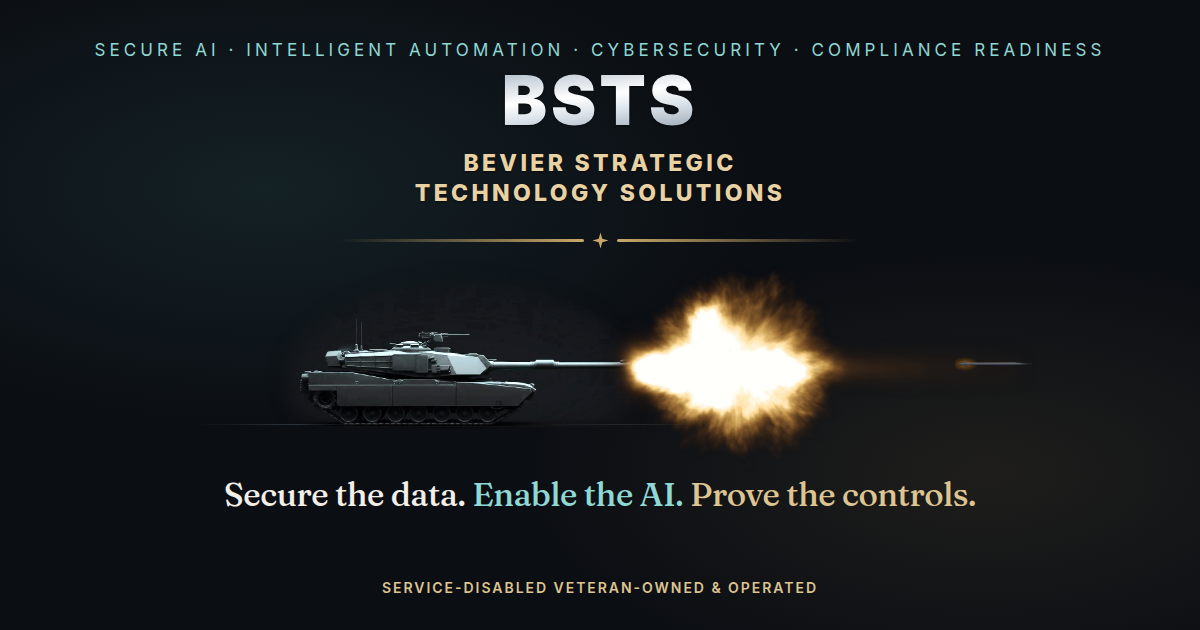
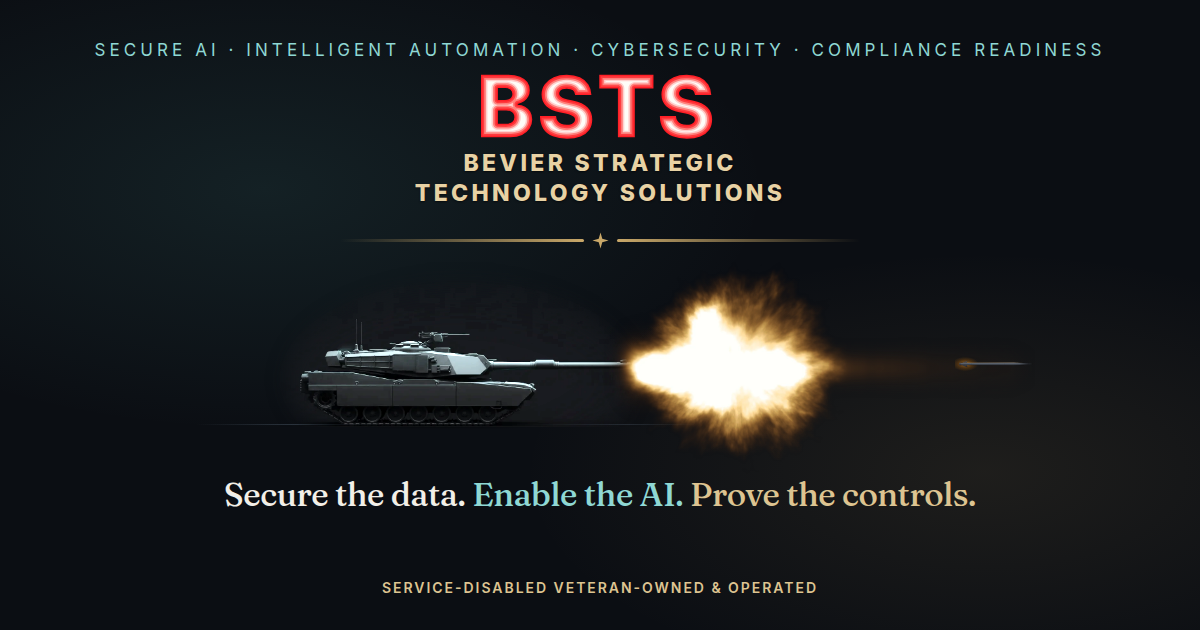
Rebuild BSTS wordmark as true vector-offset gradient, add hero corner brackets
Replaces the wordmark construction with exact analytic polygon offsetting
(Shapely/GEOS) of the original Inter Black glyph outlines, so the red-to-
white contour gradient in every stroke follows the true centerline with no
ripple or corner-flare artifacts from the old raster medial-axis approach.

Adds an optional cyan corner-bracket frame (top-right + bottom-left only),
scoped to the homepage hero via BstsWordmark's new `brackets` prop; header,
footer, and the OG share card keep the plain wordmark unchanged.

Also fixes a y-axis double-flip bug found during live-render verification
that was rendering every letter upside-down.

Claude-Session: https://claude.ai/code/session_01HTZZ4ppQjAWsUJ1c53G2uK

Changed region(s): [[0.4008, 0.1206, 0.6167, 0.2413]]

diff --git a/src/components/brand/BstsWordmark.tsx b/src/components/brand/BstsWordmark.tsx
@@ -1,0 +1,136 @@
+import { useId } from "react";
+
+/**
+ * The BSTS wordmark -- the one place that decides how the four letters of
+ * "BSTS" are drawn and colored. The header, footer, and homepage hero all
+ * render this component rather than each styling their own "BSTS" text.
+ *
+ * Construction (true vector offset, no raster anywhere):
+ *
+ *   - Each letter's outer silhouette (layer 0, solid `#FF1F26`) is the
+ *     ACTUAL Inter Black glyph outline extracted from the font with
+ *     fontTools (wght=900 -- the weight the site's own `.mark-hero`
+ *     treatment already uses) -- translated for layout, never reshaped.
+ *   - The four interior bands are TRUE INWARD-OFFSET CONTOURS of that same
+ *     outline, computed with Shapely/GEOS polygon buffering
+ *     (`polygon.buffer(-delta, join_style=round)`), which shrinks the
+ *     exterior and grows both counters at once -- i.e. it erodes the
+ *     stroke from every edge simultaneously. Nothing here is a raster
+ *     medial-axis skeleton (an earlier version was, and it produced
+ *     pixel-quantization ripple and corner-flare artifacts); this is exact
+ *     analytic polygon geometry, so every band edge runs perfectly smooth
+ *     and parallel to the stem, bowls, counters, and corners it follows.
+ *   - The per-glyph offset distance that turns the approved percentages
+ *     into real units came from measuring true stroke half-width by exact
+ *     ray-polygon intersection against the vector path (many scanlines,
+ *     robust low-percentile span width) -- again, no pixel grid involved.
+ *
+ * Band colors, outer to inner (18/38/58/76% of that measured half-width):
+ *   layer 0 (0-18%,  the untouched outer path)  #FF1F26
+ *   layer 1 (>=18%)                              #FF3B3F
+ *   layer 2 (>=38%)                              #FF817C
+ *   layer 3 (>=58%)                              #FFD1CE
+ *   layer 4 (>=76%, innermost core)              #FFFDF8
+ *
+ * Painted in that order, each smaller layer covers the middle of the one
+ * before it -- no fill-rule subtraction needed, no gaps, no seams.
+ *
+ * `brackets`: an optional cyan (var(--color-cyan-core)) corner-bracket
+ * frame -- top-right and bottom-left only -- used on the homepage hero.
+ * It is NOT a secondary mark, icon, or badge: it never appears without
+ * the complete wordmark, and it is off by default everywhere else (header,
+ * footer, and every other placement render the plain wordmark alone).
+ */
+
+const LETTER_X = [0, 1408.96, 2824.16, 4271.12]; // B, S, T, S
+const LETTERS = ["sym-wm-b", "sym-wm-s", "sym-wm-t", "sym-wm-s"];
+const X_MIN = 96;
+const X_MAX = 5577.12;
+const Y_MIN = -18;
+const Y_MAX = 1510;
+const VIEW_W = X_MAX - X_MIN;
+const VIEW_H = Y_MAX - Y_MIN;
+const ASPECT = VIEW_W / VIEW_H;
+
+// Bracket geometry, derived from the wordmark's own box so it scales with
+// it rather than being hand-tuned pixels.
+const BRACKET_PAD = VIEW_H * 0.8;
+const BRACKET_GAP = 110;
+const BRACKET_ARM = VIEW_H * 0.85;
+const BRACKET_STROKE = 118;
+const BRACKET_COLOR = "var(--color-cyan-core)";
+
+const BX0 = -BRACKET_PAD - BRACKET_GAP;
+const BY0 = -BRACKET_PAD - BRACKET_GAP;
+const BX1 = VIEW_W + BRACKET_PAD + BRACKET_GAP;
+const BY1 = VIEW_H + BRACKET_PAD + BRACKET_GAP;
+const BRACKET_VB_X = -BRACKET_PAD * 2;
+const BRACKET_VB_Y = -BRACKET_PAD * 2;
+const BRACKET_VB_W = VIEW_W + BRACKET_PAD * 4;
+const BRACKET_VB_H = VIEW_H + BRACKET_PAD * 4;
+const BRACKET_ASPECT = BRACKET_VB_W / BRACKET_VB_H;
+
+export function BstsWordmark({
+  className = "",
+  brackets = false,
+}: {
+  className?: string;
+  brackets?: boolean;
+}) {
+  const uid = useId();
+  const b = (name: string) => `${name}${uid}`;
+
+  const viewBox = brackets
+    ? `${BRACKET_VB_X} ${BRACKET_VB_Y} ${BRACKET_VB_W} ${BRACKET_VB_H}`
+    : `0 0 ${VIEW_W} ${VIEW_H}`;
+  const aspect = brackets ? BRACKET_ASPECT : ASPECT;
+
+  return (
+    <svg
+      className={className}
+      style={{ height: "1em", width: `${aspect}em`, display: "inline-block", overflow: "visible" }}
+      viewBox={viewBox}
+      aria-hidden="true"
+    >
+      <defs>
+  <symbol id={b("sym-wm-b")} overflow="visible">
+      <path d="M0,1490V0H646Q816,0 932,46Q1048,92 1107,175.5Q1166,259 1166,372Q1166,454 1130,522Q1094,590 1029.5,635.5Q965,681 878,698V714Q974,717 1052.5,761.5Q1131,806 1177.5,884.5Q1224,963 1224,1068Q1224,1190 1161,1285.5Q1098,1381 981,1435.5Q864,1490 702,1490ZM404,1168H594Q695,1168 746.5,1129Q798,1090 798,1016Q798,963 774,926.5Q750,890 705.5,871Q661,852 600,852H404ZM404,602H570Q623,602 663.5,585.5Q704,569 727,537.5Q750,506 750,460Q750,392 700.5,355Q651,318 576,318H404Z" fill="#FF1F26" />
+      <path d="M36.36,1453.64L36.36,36.36L654.22,36.39L747.25,41.05L826.66,52.87L896.52,71.67L959.56,98.27L1012.12,130.6L1046.44,160.01L1074.67,192.82L1098.14,231.02L1114.39,270.33L1125.23,315.29L1129.56,364.29L1127.21,411.47L1118.15,455.12L1105.99,488.28L1088.59,521.23L1067.24,551.33L1042.06,578.44L1005.64,607.81L963.94,632.01L922.61,648.8L868.63,662.87L857.82,667.75L849.17,675.85L843.57,686.3L841.72,716.43L848.02,734.57L856.42,743.27L864.92,747.92L925.86,755.04L967.89,764.69L1011.22,781.11L1051.72,803.58L1083.15,827.21L1110.96,854.58L1135.31,885.85L1155.84,920.73L1172.56,962.41L1183.17,1008.18L1187.53,1058.38L1185.61,1109.17L1177.88,1155.86L1164.43,1199.8L1145.25,1241.26L1120.29,1280.33L1093.79,1312.15L1065.3,1339.37L1033.14,1364.14L997.19,1386.46L957.46,1406.25L917.57,1421.77L871.64,1435.04L825.75,1444.26L769.7,1451L713.62,1453.57L36.36,1453.64ZM367.64,1168L370.41,1181.91L378.29,1193.71L390.09,1201.59L404,1204.36L599.28,1204.33L640.37,1202.22L700.13,1191.16L747.93,1171.42L776.5,1151.51L799.91,1126.86L817.27,1098.35L828.65,1066.04L834.11,1026.91L832.57,985.98L824.68,949.38L810.13,915.92L786.64,883.81L755.7,857.13L718.56,837.04L675.27,823.37L641.83,817.86L604.91,815.67L404,815.64L385.82,820.51L372.51,833.82L367.72,849.62L367.64,1168ZM367.64,602L370.41,615.91L378.29,627.71L390.09,635.59L404,638.36L573,638.35L605.78,636.54L657.56,626.17L702.75,606.71L730.2,587.28L752.69,563.78L769.19,537.89L780.48,507.83L785.93,473.51L784.98,435.88L777.64,402.19L764.43,372.66L742.66,343.84L714.5,320.34L679.91,301.42L639.88,288.44L610.68,283.53L578.21,281.65L404,281.64L385.82,286.51L372.51,299.82L367.72,315.62L367.64,602Z" fill="#FF3B3F" />
+      <path d="M76.76,1413.24L76.76,76.76L653.94,76.79L739.8,80.92L812.39,91.21L878.24,108.16L936.76,132.02L986.35,161.8L1016.51,187.23L1042.07,216.68L1062.96,250.99L1077.16,286.58L1086.29,327.96L1089.24,372.02L1086.07,413.83L1076.81,451.94L1062.83,484.81L1043.76,515.62L1020.55,542.97L992.7,567.34L967.13,584.5L939.06,599.05L901.6,613.12L848.69,627.06L823.76,643.69L811.54,659.59L803.86,678.12L801.4,692.98L801.41,719.13L805.48,739.17L814.71,757.43L824.62,769.16L841.08,781.3L865.19,789.68L915.66,794.32L958.02,803.91L995.8,818.51L1032.47,839.3L1056.79,857.83L1079.65,880.17L1099.91,905.69L1116.51,932.6L1132.35,969.37L1142.3,1008.71L1146.94,1052.87L1145.86,1100.3L1139.55,1142.19L1128.25,1181.2L1110.89,1219.87L1089.11,1254.52L1065.9,1282.82L1039,1308.71L1008.1,1332.33L975.22,1352.45L938.62,1370.4L901.87,1384.42L859.17,1396.48L816.11,1404.89L766.44,1410.73L713.11,1413.17L76.76,1413.24ZM327.24,1168L333.08,1197.37L346.29,1218.61L370.05,1236.84L393.98,1244.1L597.08,1244.75L639.19,1242.9L701.94,1232.54L730.59,1223.67L756.8,1212.42L793.19,1189.93L824.19,1160.97L848.01,1126.93L864.53,1087.84L873.42,1043.13L873.88,993.04L866.07,946.97L850.39,905.58L823.3,864.35L787.69,830.41L744.65,804.45L693.75,786.26L650.03,778.14L603.79,775.26L398.98,775.4L370.05,783.16L353.39,794.29L340.18,809.35L333.08,822.63L327.9,841.98L327.24,1168ZM327.24,602L333.08,631.37L346.29,652.61L370.05,670.84L393.98,678.1L605.37,677.18L660.64,667.34L710.47,648.43L746.13,626.32L776.23,598.56L799.6,566.55L815.98,530.14L825.07,488.92L826.24,443.63L819.47,401.27L805.16,363.11L780.93,326.06L748.03,294.7L705.98,268.93L657.5,251.16L619.62,243.91L578.59,241.25L398.98,241.4L370.05,249.16L357.27,257.1L343.1,271.27L333.08,288.63L327.9,307.98L327.24,602Z" fill="#FF817C" />
+      <path d="M117.16,1372.84L117.16,117.16L653.67,117.19L732.67,120.83L801.74,130.3L860.78,144.98L914.78,166.25L961.03,193.35L987.02,214.91L1008.53,239.27L1026.08,267.57L1038.08,296.95L1046.02,331.76L1048.83,369.95L1046.54,405.08L1039.24,436.88L1027.56,465.07L1011.09,491.86L990.93,515.46L966.24,536.68L940.77,553.04L912.05,566.65L832.67,589.99L852.78,547.38L864.33,500.17L866.93,448.36L860.31,398.16L845.72,354.42L822.56,313.91L792.01,279.05L753.93,249.57L725.8,233.65L695.69,220.78L663.49,211L629.69,204.5L583.41,200.91L404,200.84L373.68,204.83L345.42,216.54L321.16,235.16L306.59,252.91L293.06,280.34L287.09,310.34L286.84,602L289.09,624.86L293.06,639.66L302.54,660.58L315.91,679.25L332.68,694.95L345.42,703.46L366.34,712.94L388.71,718.16L587.51,718.82L638.23,713.6L684.84,702.29L728.51,684.58L766.76,661.32L761.09,690.33L761.88,729.61L767.32,752.42L779.14,776.75L742.89,759.72L704.33,747.27L662.65,739.05L619.47,735.22L396.34,735.09L373.68,738.83L359.16,743.76L332.68,759.05L315.91,774.75L302.54,793.42L293.06,814.34L287.84,836.71L287.09,1175.66L290.83,1198.32L295.76,1212.84L306.59,1233.09L315.91,1245.25L326.75,1256.09L345.42,1269.46L366.34,1278.94L388.71,1284.16L599.88,1285.13L657.52,1281.64L697.11,1275.17L733.43,1265.44L766.97,1252.34L798.12,1235.56L821.37,1219.2L842.47,1200.52L861.54,1179.22L877.18,1157.02L890.16,1133.22L900.79,1106.99L908.66,1078.6L913.33,1049.92L915.15,1018.36L913.81,985.81L909.37,954.88L901.88,925.51L891.42,897.89L878.2,872.24L861.81,847.87L843.01,825.8L858.45,829.52L901.49,833.16L929.85,838.15L959.13,846.9L988.04,859.77L1015.87,876.96L1040.83,898.01L1062.47,922.84L1080.88,951.64L1094.06,982.26L1102.8,1017.38L1106.65,1056.36L1105.62,1096.8L1100.08,1133.56L1090.3,1167.35L1076.23,1199.01L1057.57,1229.19L1036.23,1255.4L1012.7,1278.04L985.33,1298.95L953.67,1318.18L920.24,1334.33L884.11,1347.72L847.14,1357.81L806.86,1365.44L759.94,1370.72L712.59,1372.77L117.16,1372.84Z" fill="#FFD1CE" />
+      <path d="M153.52,1336.48L153.52,153.52L653.42,153.55L726.19,156.76L789.42,165L847.58,178.95L897.18,198.14L938.51,221.95L958.69,238.17L974.59,254.89L988.07,273.95L998.96,295.65L1006.39,318.46L1011.04,344.79L1012.48,373.2L1010.7,398.83L1006,421.21L998.52,441.59L987.21,462.37L973.86,480.39L957.84,496.73L938.31,511.92L894.61,534.42L902.57,485L902.39,432.66L894.16,383.48L878.3,338.21L855.13,297.04L825.24,260.71L788.24,228.97L744.45,202.32L686.19,179.46L621.68,166.87L579.3,164.49L393.96,164.81L364.27,169.71L336.1,180.31L310.54,196.2L282.2,224.54L262.17,259.25L253.43,288.05L250.81,307.96L250.81,612.04L255.71,641.73L271.05,678.76L288.58,703.22L315.01,727L288.58,750.78L271.05,775.24L258.63,802.65L251.79,831.96L250.81,1178.04L253.43,1197.95L262.17,1226.75L271.05,1244.76L288.58,1269.22L302.78,1283.42L327.24,1300.95L354.65,1313.37L374.05,1318.57L404,1321.52L600.14,1321.49L642.78,1319.63L680.74,1315.16L716.99,1307.9L750.71,1297.98L780.88,1285.96L832.95,1255.97L876.43,1217.69L895.38,1194.85L910.81,1171.68L924.42,1145.78L935.25,1118.59L943.49,1089.47L948.92,1058.56L951.37,1026.27L950.77,992.24L941.01,930.13L932.09,901.49L920,873.2L966.51,889.6L988.59,902.3L1007.6,916.77L1024.22,933.34L1039.15,952.8L1050.94,972.9L1059.99,995.03L1066.46,1020.68L1069.8,1047.67L1070.32,1078.13L1067.7,1108.38L1062.57,1134.14L1054.39,1159.52L1043.3,1183.48L1028.98,1206.65L1010.7,1229.44L989.03,1250.44L963.2,1270.03L934.44,1287.24L903.89,1301.76L870.74,1313.81L798.6,1329.91L754.09,1334.69L708.77,1336.45L153.52,1336.48Z" fill="#FFFDF8" />
+  </symbol>
+  <symbol id={b("sym-wm-s")} overflow="visible">
+      <path d="M644,1528Q450,1528 305.5,1470.5Q161,1413 81,1293Q1,1173 0,986H384Q388,1054 418.5,1101Q449,1148 504.5,1172Q560,1196 638,1196Q703,1196 747,1180Q791,1164 813.5,1135.5Q836,1107 836,1070Q836,1036 814.5,1010.5Q793,985 744,964Q695,943 612,926L462,894Q265,852 151.5,750.5Q38,649 38,474Q38,332 115,225.5Q192,119 327.5,59.5Q463,0 640,0Q821,0 952.5,60.5Q1084,121 1155.5,230.5Q1227,340 1228,486H840Q835,413 786.5,372.5Q738,332 640,332Q578,332 538,346.5Q498,361 479,387Q460,413 460,446Q460,481 480.5,507.5Q501,534 545.5,553.5Q590,573 660,588L782,614Q905,640 993.5,683Q1082,726 1138.5,783.5Q1195,841 1221.5,913Q1248,985 1248,1070Q1248,1217 1175.5,1319.5Q1103,1422 968,1475Q833,1528 644,1528Z" fill="#FF1F26" />
+      <path d="M39,1023.89L350.11,1023.89L358.87,1061.43L372.68,1096.69L391.34,1128.48L413.97,1155.71L440.52,1178.81L472.3,1198.62L507.67,1213.91L547.97,1225.15L583.49,1230.9L621.5,1233.64L663.43,1233.29L701.65,1229.72L733.98,1223.49L762.59,1214.63L790.14,1202.26L813.79,1187.37L839.23,1163.84L858.3,1135.7L869.85,1104.72L873.89,1071.36L870.42,1039.25L859.47,1009.81L841.27,983.53L816.32,961.01L768.11,933.24L703.9,909.61L644.52,894.24L432.77,848.28L380.36,833.22L331.9,815.72L276.83,790.5L227.81,761.63L182.02,726.88L148.77,693.73L123.75,659.76L105.34,625.33L90.37,584.4L81.16,543L76.3,494.01L76.79,444.87L82.25,398.56L93.45,352.09L117.85,292.74L151.08,240.43L197.33,188.71L250.16,145.69L311.75,108.87L381.82,78.68L454.81,57.47L533.78,43.92L623.05,38.04L715.92,40.83L801.42,52.33L878.99,72.34L948.83,100.7L1012.86,138.07L1064.9,180.4L1110.15,231.65L1140.48,279.3L1163.62,330.78L1179.59,386.29L1188.5,448.11L872.88,448.11L862.3,413.82L845.84,382.56L823.97,355.54L797.47,333.37L766.65,316.48L731.25,304.41L690.48,296.92L645.37,294.14L595.84,296.04L553.32,302.66L516.8,314.06L484.86,330.59L459.44,351.5L440.02,377.54L427.46,407.14L422.24,439.57L426.09,480.11L441.02,516.73L466.49,548.1L502.99,574.55L541.67,592.98L590.08,609.53L834.41,665.43L897.16,684.47L953.36,706.23L1016.76,738.2L1070.27,773.78L1115.28,813.99L1150.85,857.88L1168.55,887.21L1183.51,919.69L1195.07,954.37L1203.39,990.97L1208.42,1029.49L1210.11,1069.98L1208.59,1110.17L1203.56,1151.17L1196.62,1183.86L1186.26,1217.49L1173.04,1249.11L1156.93,1278.82L1137.87,1306.77L1114.15,1334.98L1089.55,1358.98L1062.27,1381.07L1032.23,1401.27L999.34,1419.56L924.96,1450.31L840.08,1472.54L749.07,1485.5L639.3,1490.1L531.38,1484.68L436.81,1470.22L347.29,1445.62L277.32,1416.34L219.13,1381.48L168.76,1339.71L123.89,1288.19L89.28,1231.94L64.52,1171.01L47.7,1102.15L39,1023.89Z" fill="#FF3B3F" />
+      <path d="M84.89,1066L316.34,1066L329.81,1104.19L348.34,1139.73L371.45,1171.53L398.47,1198.96L429.91,1222.64L465.13,1242.01L504.95,1257.38L547.14,1267.93L589.3,1273.83L633.65,1275.98L680.01,1274.42L722.68,1268.96L758.89,1260.3L793.06,1247.64L823.34,1231.72L849.09,1213.1L874.52,1187.28L894.73,1156.89L908.31,1123.77L915.1,1088.75L915.16,1052.48L908.17,1017.8L894.32,985.77L873.41,956.32L851.65,935.23L825.29,916.2L794.14,898.98L758.23,883.5L676.08,858.44L460.68,811.75L393.3,793.16L347.61,776.66L302.74,756.46L265.51,735.76L229.54,711.22L196.29,682.9L170.32,653.3L148.56,618.15L133.42,581.24L123.25,539.49L118.37,492.26L119.22,441.78L126.31,392.62L143.28,337.8L169.46,287.58L207.2,238.73L253.65,195.54L306.63,159.58L368.56,128.93L434.21,106.16L506.01,90.33L588.11,81.44L677,80.7L757.72,87.74L833.95,102.9L901.9,125.68L964.66,157.11L1017.64,194.58L1061.46,237.99L1089.97,276.47L1111.78,315.81L1129.29,360.54L1140.6,406L904.42,406L887.28,369.52L863.35,336.13L833.4,307.54L799.04,285.33L759.64,268.84L716.09,258.12L665.59,252.63L611.92,252.69L561.24,258.16L516.86,269.16L477.21,286.2L443.89,308.57L417.41,335.82L396.87,369.3L384.4,405.67L380.01,444.89L381.57,470.58L386.32,494.5L394.42,517.81L405.66,539.62L419.87,559.77L436.77,577.95L456.97,594.79L479.76,609.75L523.33,630.98L578.27,649.95L630.15,663.33L815.56,704.01L873.97,721.09L926.05,740.36L983.16,767.61L1032.98,798.57L1073.32,831.6L1107.18,869.25L1124.08,894.11L1138.55,921.5L1149.49,949.35L1158.41,981L1164.46,1014.61L1167.5,1048.62L1165.23,1121.56L1153.06,1183.55L1130.64,1239.78L1098.13,1289.26L1055.75,1332.57L1028.58,1353.41L1000.61,1371.07L935.83,1401.68L863.08,1424.34L780.34,1439.66L683.24,1447.38L581.95,1446.36L487.42,1436.65L402.05,1418.52L335.09,1396.18L276.88,1368.33L226.74,1334.62L181.91,1292.75L144.39,1243.78L117.91,1193.74L97.25,1132.56L84.89,1066Z" fill="#FF817C" />
+      <path d="M134.7,1108.1L285.95,1108.1L303.99,1147.19L326.9,1183.06L353.97,1214.79L386.21,1243.33L422.76,1267.51L462.02,1286.59L503.91,1300.99L550.58,1311.3L599.48,1316.86L652.12,1317.94L702.01,1314.58L747.38,1306.86L788.39,1294.87L826.36,1278.35L860,1257.88L889.01,1233.69L916.91,1201.01L938.24,1163.73L951.88,1123.75L957.86,1080.68L955.84,1038.26L945.91,997.9L928.12,960.14L903.16,926.42L877.79,902.21L847.24,880.27L811.41,860.56L770.06,842.96L684.1,817.05L474.5,771.73L417.65,756.67L337.1,726.29L304.09,709.55L271.96,689.84L239.27,665.05L214.23,640.68L193.91,613.1L179.33,584.26L168.61,551.03L162,512.24L160.14,468.59L162.99,427.55L174.56,374.86L194.62,327.72L224.17,283.62L262.57,243.07L309.32,207.34L363.05,177.47L421.73,153.99L486.44,136.76L561.37,125.66L640,122.1L720.12,125.73L795.11,136.96L861.2,155.21L919.31,180.09L971.11,211.68L1015.15,249.63L1036.8,274.33L1057.04,303.18L1072.71,331.7L1086.04,363.9L932.07,363.9L917.53,338.34L899.62,313.82L879.19,291.73L856.94,272.51L832.84,256.06L806.12,241.9L777.37,230.38L746.26,221.38L688.79,212.07L626.93,210.03L566.57,214.7L513.27,226.15L473.78,240.93L439.01,259.96L408.66,283.45L383.55,310.78L363.11,342.66L348.38,377.8L340.04,414.57L337.99,452.64L340.72,482.27L346.92,509.93L356.86,536.99L370.68,563.12L387.13,586.25L407.26,607.99L430.49,627.57L456.53,644.93L505.53,669.18L566.18,690.28L620.79,704.38L799.85,743.44L851.57,758.1L899.8,775.16L950.94,798.21L997.39,825.2L1034.58,853.29L1065.36,884.37L1094.78,927.84L1113.59,975.7L1124.1,1032.08L1125.18,1095.51L1117.78,1151.4L1101.49,1203.03L1077.02,1247.27L1043.38,1286.95L998.61,1322.86L944.26,1352.56L880.74,1375.96L810.17,1392.48L725.93,1402.93L635.24,1405.87L547.72,1401.66L464.74,1389.96L396.92,1373.21L336.6,1351.19L285.79,1324.66L242.76,1293.29L204.61,1254.72L173.19,1210.17L150.36,1161.6L134.7,1108.1Z" fill="#FFD1CE" />
+      <path d="M184.99,1145.99L260.92,1145.99L283.21,1186.41L310.31,1223.12L342.03,1255.82L377.76,1284.01L417.49,1307.74L461.68,1327.12L508.29,1341.32L559.26,1350.91L614.69,1355.57L673.37,1355.03L726.76,1349.41L775.25,1338.85L820.67,1322.87L861.72,1302L897.48,1276.89L928.49,1247.23L957.54,1208.15L978.86,1164.68L991.68,1118.48L995.99,1070.61L991.78,1023.27L978.98,978.11L957.84,936.13L928.95,898.46L900.38,871.73L866.4,847.56L826.25,825.65L781.5,806.79L690.96,779.72L487.04,735.71L436.07,722.63L368.06,698.56L309.81,669.08L280.01,649.09L253.61,627.04L235.58,606.98L221.66,585.34L210.18,558.58L202.53,528.38L198.59,494.65L198.29,459.53L204.5,409.52L218.75,364.7L241.19,324.16L272.17,286.41L310.6,252.64L355.69,223.74L409.69,198.59L467.37,180.07L534.99,166.85L606.91,160.63L684.83,161.14L759.52,168.89L821.91,182.54L878.54,202.67L929.76,229.52L972.78,261.52L1001.84,291.39L1026.58,326.01L954.48,326.01L919.15,278.52L897.08,256.64L874.29,238.17L822.14,207.56L762.59,186.4L700.97,175.22L631.71,172.06L563.26,176.91L502.39,189.85L456.21,207.3L415.67,229.96L379.89,258.46L350.74,291.36L326.79,330.47L310.44,372.29L301.61,416.61L300.46,461.89L304.38,494.57L312.21,525.98L324.07,556.42L339.64,584.95L358.52,611.13L380.43,634.77L406.13,656.66L435.45,676.47L488.18,703L554.02,726.2L612.36,741.33L788.04,779.55L878.04,807.36L923.59,826.91L965.64,849.87L1000.38,874.12L1029.41,900.91L1055.59,935.45L1072.91,972.62L1084.23,1018.69L1088.01,1069.91L1084.25,1124.07L1073.32,1170.56L1055.41,1210.65L1028.65,1247.55L993.06,1280.36L948.53,1308.4L894.25,1331.76L834.99,1348.79L766.46,1360.8L688.54,1367.13L606.47,1367.37L528.67,1361.56L461.9,1350.72L401.93,1335.1L349.27,1315.36L303.66,1291.15L265.66,1263L232.2,1228.63L204.84,1189.2L184.99,1145.99Z" fill="#FFFDF8" />
+  </symbol>
+  <symbol id={b("sym-wm-t")} overflow="visible">
+      <path d="M0,326V0H1294V326H849V1490H445V326Z" fill="#FF1F26" />
+      <path d="M36.36,289.64L36.36,36.36L1257.64,36.36L1257.64,289.64L846.62,289.72L835.09,292.41L826.87,297.15L818.77,305.8L814.57,314.31L812.64,326L812.64,1453.64L481.36,1453.64L481.36,326L480.12,316.59L475.23,305.8L463.18,294.51L447.38,289.72L36.36,289.64Z" fill="#FF3B3F" />
+      <path d="M76.76,249.24L76.76,76.76L1217.24,76.76L1217.24,249.24L838.98,249.9L819.63,255.08L802.27,265.1L788.1,279.27L776.31,301.33L772.24,326L772.24,1413.24L521.76,1413.24L521.76,326L519.14,306.13L511.48,287.62L499.28,271.72L483.38,259.52L469.67,253.31L450.02,249.4L76.76,249.24Z" fill="#FF817C" />
+      <path d="M117.16,208.84L117.16,117.16L1176.84,117.16L1176.84,208.84L849,208.84L826.14,211.09L797.18,220.92L771.75,237.91L751.59,260.91L738.06,288.34L732.84,310.71L731.84,326L731.84,1372.84L562.16,1372.84L562.16,326L558.17,295.68L550.08,274.18L533.09,248.75L510.09,228.59L489.84,217.76L460.29,209.84L117.16,208.84Z" fill="#FFD1CE" />
+      <path d="M153.52,172.48L153.52,153.52L1140.48,153.52L1140.48,172.48L849,172.48L809.27,177.71L781.1,188.31L747.78,210.58L721.35,240.71L703.63,276.65L698.43,296.05L695.48,326L695.48,1336.48L598.52,1336.48L598.52,326L593.29,286.27L582.69,258.1L560.42,224.78L538.46,204.2L503.75,184.17L474.95,175.43L445,172.48L153.52,172.48Z" fill="#FFFDF8" />
+  </symbol>
+      </defs>
+      <g transform={`translate(${-X_MIN},${-Y_MIN})`}>
+        {LETTERS.map((id, i) => (
+          <use key={i} href={`#${b(id)}`} x={LETTER_X[i]} />
+        ))}
+      </g>
+      {brackets ? (
+        <g
+          stroke={BRACKET_COLOR}
+          strokeWidth={BRACKET_STROKE}
+          strokeLinecap="square"
+          fill="none"
+        >
+          <path d={`M${BX1 - BRACKET_ARM},${BY0} L${BX1},${BY0} L${BX1},${BY0 + BRACKET_ARM}`} />
+          <path d={`M${BX0 + BRACKET_ARM},${BY1} L${BX0},${BY1} L${BX0},${BY1 - BRACKET_ARM}`} />
+        </g>
+      ) : null}
+    </svg>
+  );
+}

diff --git a/og-src.html b/og-src.html
@@ -69,16 +69,25 @@
     font-size: 17px; letter-spacing: 0.24em; color: #8fd8d4; text-transform: uppercase;
   }
 
-  /* Chrome monogram — machined metal, lit from above. */
+  /* BSTS wordmark — real vector artwork, must match
+     src/components/brand/BstsWordmark.tsx exactly (same <symbol>/<use>
+     structure, same path data). This file is a static page rendered
+     outside Next/React (see scripts/render-og.mjs), so it can't import
+     that component; the SVG below is hand-copied instead.
+
+     Each letter is five flat, nested vector layers painted outer-to-inner
+     (0-18% from the edge #FF1F26, 18%+ #FF3B3F, 38%+ #FF817C, 58%+
+     #FFD1CE, 76%+ #FFFDF8). Layer 0 is the untouched Inter Black glyph
+     outline; layers 1-4 are TRUE INWARD-OFFSET CONTOURS of that same
+     outline computed with Shapely/GEOS polygon buffering (exact analytic
+     geometry, not a raster skeleton), so the white core runs the real
+     stroke centerline (B's stem and both bowls, S's full curve, T's
+     crossbar and stem) with no ripple or corner-flare artifacts. Change
+     path data in both places together. */
   .mark {
-    position: absolute; top: 68px; left: 0; right: 0; text-align: center;
-    font-weight: 900; font-size: 68px; line-height: 0.95; letter-spacing: 0.055em;
-    background-image: linear-gradient(174deg,
-      #ffffff 0%, #eef2f6 14%, #b9c4cf 31%, #ffffff 47%,
-      #dbe3ea 56%, #8c98a5 74%, #cfd8e0 90%, #f4f7fa 100%);
-    -webkit-background-clip: text; background-clip: text; color: transparent;
-    filter: drop-shadow(0 1px 1px rgba(0,0,0,0.55));
+    position: absolute; top: 74px; left: 0; right: 0; text-align: center;
   }
+  .mark svg { height: 64px; width: auto; display: inline-block; overflow: visible; }
 
   /* The full company name is the focal point, not the initialism. */
   .name {
@@ -134,7 +143,39 @@
 </head>
 <body>
   <div class="eyebrow">Secure AI · Intelligent Automation · Cybersecurity · Compliance Readiness</div>
-  <div class="mark">BSTS</div>
+  <div class="mark">
+    <svg viewBox="0 0 5481.12 1528">
+      <defs>
+        <symbol id="og-wm-b" overflow="visible">
+          <path d="M0,1490V0H646Q816,0 932,46Q1048,92 1107,175.5Q1166,259 1166,372Q1166,454 1130,522Q1094,590 1029.5,635.5Q965,681 878,698V714Q974,717 1052.5,761.5Q1131,806 1177.5,884.5Q1224,963 1224,1068Q1224,1190 1161,1285.5Q1098,1381 981,1435.5Q864,1490 702,1490ZM404,1168H594Q695,1168 746.5,1129Q798,1090 798,1016Q798,963 774,926.5Q750,890 705.5,871Q661,852 600,852H404ZM404,602H570Q623,602 663.5,585.5Q704,569 727,537.5Q750,506 750,460Q750,392 700.5,355Q651,318 576,318H404Z" fill="#FF1F26"/>
+          <path d="M36.36,1453.64L36.36,36.36L654.22,36.39L747.25,41.05L826.66,52.87L896.52,71.67L959.56,98.27L1012.12,130.6L1046.44,160.01L1074.67,192.82L1098.14,231.02L1114.39,270.33L1125.23,315.29L1129.56,364.29L1127.21,411.47L1118.15,455.12L1105.99,488.28L1088.59,521.23L1067.24,551.33L1042.06,578.44L1005.64,607.81L963.94,632.01L922.61,648.8L868.63,662.87L857.82,667.75L849.17,675.85L843.57,686.3L841.72,716.43L848.02,734.57L856.42,743.27L864.92,747.92L925.86,755.04L967.89,764.69L1011.22,781.11L1051.72,803.58L1083.15,827.21L1110.96,854.58L1135.31,885.85L1155.84,920.73L1172.56,962.41L1183.17,1008.18L1187.53,1058.38L1185.61,1109.17L1177.88,1155.86L1164.43,1199.8L1145.25,1241.26L1120.29,1280.33L1093.79,1312.15L1065.3,1339.37L1033.14,1364.14L997.19,1386.46L957.46,1406.25L917.57,1421.77L871.64,1435.04L825.75,1444.26L769.7,1451L713.62,1453.57L36.36,1453.64ZM367.64,1168L370.41,1181.91L378.29,1193.71L390.09,1201.59L404,1204.36L599.28,1204.33L640.37,1202.22L700.13,1191.16L747.93,1171.42L776.5,1151.51L799.91,1126.86L817.27,1098.35L828.65,1066.04L834.11,1026.91L832.57,985.98L824.68,949.38L810.13,915.92L786.64,883.81L755.7,857.13L718.56,837.04L675.27,823.37L641.83,817.86L604.91,815.67L404,815.64L385.82,820.51L372.51,833.82L367.72,849.62L367.64,1168ZM367.64,602L370.41,615.91L378.29,627.71L390.09,635.59L404,638.36L573,638.35L605.78,636.54L657.56,626.17L702.75,606.71L730.2,587.28L752.69,563.78L769.19,537.89L780.48,507.83L785.93,473.51L784.98,435.88L777.64,402.19L764.43,372.66L742.66,343.84L714.5,320.34L679.91,301.42L639.88,288.44L610.68,283.53L578.21,281.65L404,281.64L385.82,286.51L372.51,299.82L367.72,315.62L367.64,602Z" fill="#FF3B3F"/>
+          <path d="M76.76,1413.24L76.76,76.76L653.94,76.79L739.8,80.92L812.39,91.21L878.24,108.16L936.76,132.02L986.35,161.8L1016.51,187.23L1042.07,216.68L1062.96,250.99L1077.16,286.58L1086.29,327.96L1089.24,372.02L1086.07,413.83L1076.81,451.94L1062.83,484.81L1043.76,515.62L1020.55,542.97L992.7,567.34L967.13,584.5L939.06,599.05L901.6,613.12L848.69,627.06L823.76,643.69L811.54,659.59L803.86,678.12L801.4,692.98L801.41,719.13L805.48,739.17L814.71,757.43L824.62,769.16L841.08,781.3L865.19,789.68L915.66,794.32L958.02,803.91L995.8,818.51L1032.47,839.3L1056.79,857.83L1079.65,880.17L1099.91,905.69L1116.51,932.6L1132.35,969.37L1142.3,1008.71L1146.94,1052.87L1145.86,1100.3L1139.55,1142.19L1128.25,1181.2L1110.89,1219.87L1089.11,1254.52L1065.9,1282.82L1039,1308.71L1008.1,1332.33L975.22,1352.45L938.62,1370.4L901.87,1384.42L859.17,1396.48L816.11,1404.89L766.44,1410.73L713.11,1413.17L76.76,1413.24ZM327.24,1168L333.08,1197.37L346.29,1218.61L370.05,1236.84L393.98,1244.1L597.08,1244.75L639.19,1242.9L701.94,1232.54L730.59,1223.67L756.8,1212.42L793.19,1189.93L824.19,1160.97L848.01,1126.93L864.53,1087.84L873.42,1043.13L873.88,993.04L866.07,946.97L850.39,905.58L823.3,864.35L787.69,830.41L744.65,804.45L693.75,786.26L650.03,778.14L603.79,775.26L398.98,775.4L370.05,783.16L353.39,794.29L340.18,809.35L333.08,822.63L327.9,841.98L327.24,1168ZM327.24,602L333.08,631.37L346.29,652.61L370.05,670.84L393.98,678.1L605.37,677.18L660.64,667.34L710.47,648.43L746.13,626.32L776.23,598.56L799.6,566.55L815.98,530.14L825.07,488.92L826.24,443.63L819.47,401.27L805.16,363.11L780.93,326.06L748.03,294.7L705.98,268.93L657.5,251.16L619.62,243.91L578.59,241.25L398.98,241.4L370.05,249.16L357.27,257.1L343.1,271.27L333.08,288.63L327.9,307.98L327.24,602Z" fill="#FF817C"/>
+          <path d="M117.16,1372.84L117.16,117.16L653.67,117.19L732.67,120.83L801.74,130.3L860.78,144.98L914.78,166.25L961.03,193.35L987.02,214.91L1008.53,239.27L1026.08,267.57L1038.08,296.95L1046.02,331.76L1048.83,369.95L1046.54,405.08L1039.24,436.88L1027.56,465.07L1011.09,491.86L990.93,515.46L966.24,536.68L940.77,553.04L912.05,566.65L832.67,589.99L852.78,547.38L864.33,500.17L866.93,448.36L860.31,398.16L845.72,354.42L822.56,313.91L792.01,279.05L753.93,249.57L725.8,233.65L695.69,220.78L663.49,211L629.69,204.5L583.41,200.91L404,200.84L373.68,204.83L345.42,216.54L321.16,235.16L306.59,252.91L293.06,280.34L287.09,310.34L286.84,602L289.09,624.86L293.06,639.66L302.54,660.58L315.91,679.25L332.68,694.95L345.42,703.46L366.34,712.94L388.71,718.16L587.51,718.82L638.23,713.6L684.84,702.29L728.51,684.58L766.76,661.32L761.09,690.33L761.88,729.61L767.32,752.42L779.14,776.75L742.89,759.72L704.33,747.27L662.65,739.05L619.47,735.22L396.34,735.09L373.68,738.83L359.16,743.76L332.68,759.05L315.91,774.75L302.54,793.42L293.06,814.34L287.84,836.71L287.09,1175.66L290.83,1198.32L295.76,1212.84L306.59,1233.09L315.91,1245.25L326.75,1256.09L345.42,1269.46L366.34,1278.94L388.71,1284.16L599.88,1285.13L657.52,1281.64L697.11,1275.17L733.43,1265.44L766.97,1252.34L798.12,1235.56L821.37,1219.2L842.47,1200.52L861.54,1179.22L877.18,1157.02L890.16,1133.22L900.79,1106.99L908.66,1078.6L913.33,1049.92L915.15,1018.36L913.81,985.81L909.37,954.88L901.88,925.51L891.42,897.89L878.2,872.24L861.81,847.87L843.01,825.8L858.45,829.52L901.49,833.16L929.85,838.15L959.13,846.9L988.04,859.77L1015.87,876.96L1040.83,898.01L1062.47,922.84L1080.88,951.64L1094.06,982.26L1102.8,1017.38L1106.65,1056.36L1105.62,1096.8L1100.08,1133.56L1090.3,1167.35L1076.23,1199.01L1057.57,1229.19L1036.23,1255.4L1012.7,1278.04L985.33,1298.95L953.67,1318.18L920.24,1334.33L884.11,1347.72L847.14,1357.81L806.86,1365.44L759.94,1370.72L712.59,1372.77L117.16,1372.84Z" fill="#FFD1CE"/>
+          <path d="M153.52,1336.48L153.52,153.52L653.42,153.55L726.19,156.76L789.42,165L847.58,178.95L897.18,198.14L938.51,221.95L958.69,238.17L974.59,254.89L988.07,273.95L998.96,295.65L1006.39,318.46L1011.04,344.79L1012.48,373.2L1010.7,398.83L1006,421.21L998.52,441.59L987.21,462.37L973.86,480.39L957.84,496.73L938.31,511.92L894.61,534.42L902.57,485L902.39,432.66L894.16,383.48L878.3,338.21L855.13,297.04L825.24,260.71L788.24,228.97L744.45,202.32L686.19,179.46L621.68,166.87L579.3,164.49L393.96,164.81L364.27,169.71L336.1,180.31L310.54,196.2L282.2,224.54L262.17,259.25L253.43,288.05L250.81,307.96L250.81,612.04L255.71,641.73L271.05,678.76L288.58,703.22L315.01,727L288.58,750.78L271.05,775.24L258.63,802.65L251.79,831.96L250.81,1178.04L253.43,1197.95L262.17,1226.75L271.05,1244.76L288.58,1269.22L302.78,1283.42L327.24,1300.95L354.65,1313.37L374.05,1318.57L404,1321.52L600.14,1321.49L642.78,1319.63L680.74,1315.16L716.99,1307.9L750.71,1297.98L780.88,1285.96L832.95,1255.97L876.43,1217.69L895.38,1194.85L910.81,1171.68L924.42,1145.78L935.25,1118.59L943.49,1089.47L948.92,1058.56L951.37,1026.27L950.77,992.24L941.01,930.13L932.09,901.49L920,873.2L966.51,889.6L988.59,902.3L1007.6,916.77L1024.22,933.34L1039.15,952.8L1050.94,972.9L1059.99,995.03L1066.46,1020.68L1069.8,1047.67L1070.32,1078.13L1067.7,1108.38L1062.57,1134.14L1054.39,1159.52L1043.3,1183.48L1028.98,1206.65L1010.7,1229.44L989.03,1250.44L963.2,1270.03L934.44,1287.24L903.89,1301.76L870.74,1313.81L798.6,1329.91L754.09,1334.69L708.77,1336.45L153.52,1336.48Z" fill="#FFFDF8"/>
+        </symbol>
+        <symbol id="og-wm-s" overflow="visible">
+          <path d="M644,1528Q450,1528 305.5,1470.5Q161,1413 81,1293Q1,1173 0,986H384Q388,1054 418.5,1101Q449,1148 504.5,1172Q560,1196 638,1196Q703,1196 747,1180Q791,1164 813.5,1135.5Q836,1107 836,1070Q836,1036 814.5,1010.5Q793,985 744,964Q695,943 612,926L462,894Q265,852 151.5,750.5Q38,649 38,474Q38,332 115,225.5Q192,119 327.5,59.5Q463,0 640,0Q821,0 952.5,60.5Q1084,121 1155.5,230.5Q1227,340 1228,486H840Q835,413 786.5,372.5Q738,332 640,332Q578,332 538,346.5Q498,361 479,387Q460,413 460,446Q460,481 480.5,507.5Q501,534 545.5,553.5Q590,573 660,588L782,614Q905,640 993.5,683Q1082,726 1138.5,783.5Q1195,841 1221.5,913Q1248,985 1248,1070Q1248,1217 1175.5,1319.5Q1103,1422 968,1475Q833,1528 644,1528Z" fill="#FF1F26"/>
+          <path d="M39,1023.89L350.11,1023.89L358.87,1061.43L372.68,1096.69L391.34,1128.48L413.97,1155.71L440.52,1178.81L472.3,1198.62L507.67,1213.91L547.97,1225.15L583.49,1230.9L621.5,1233.64L663.43,1233.29L701.65,1229.72L733.98,1223.49L762.59,1214.63L790.14,1202.26L813.79,1187.37L839.23,1163.84L858.3,1135.7L869.85,1104.72L873.89,1071.36L870.42,1039.25L859.47,1009.81L841.27,983.53L816.32,961.01L768.11,933.24L703.9,909.61L644.52,894.24L432.77,848.28L380.36,833.22L331.9,815.72L276.83,790.5L227.81,761.63L182.02,726.88L148.77,693.73L123.75,659.76L105.34,625.33L90.37,584.4L81.16,543L76.3,494.01L76.79,444.87L82.25,398.56L93.45,352.09L117.85,292.74L151.08,240.43L197.33,188.71L250.16,145.69L311.75,108.87L381.82,78.68L454.81,57.47L533.78,43.92L623.05,38.04L715.92,40.83L801.42,52.33L878.99,72.34L948.83,100.7L1012.86,138.07L1064.9,180.4L1110.15,231.65L1140.48,279.3L1163.62,330.78L1179.59,386.29L1188.5,448.11L872.88,448.11L862.3,413.82L845.84,382.56L823.97,355.54L797.47,333.37L766.65,316.48L731.25,304.41L690.48,296.92L645.37,294.14L595.84,296.04L553.32,302.66L516.8,314.06L484.86,330.59L459.44,351.5L440.02,377.54L427.46,407.14L422.24,439.57L426.09,480.11L441.02,516.73L466.49,548.1L502.99,574.55L541.67,592.98L590.08,609.53L834.41,665.43L897.16,684.47L953.36,706.23L1016.76,738.2L1070.27,773.78L1115.28,813.99L1150.85,857.88L1168.55,887.21L1183.51,919.69L1195.07,954.37L1203.39,990.97L1208.42,1029.49L1210.11,1069.98L1208.59,1110.17L1203.56,1151.17L1196.62,1183.86L1186.26,1217.49L1173.04,1249.11L1156.93,1278.82L1137.87,1306.77L1114.15,1334.98L1089.55,1358.98L1062.27,1381.07L1032.23,1401.27L999.34,1419.56L924.96,1450.31L840.08,1472.54L749.07,1485.5L639.3,1490.1L531.38,1484.68L436.81,1470.22L347.29,1445.62L277.32,1416.34L219.13,1381.48L168.76,1339.71L123.89,1288.19L89.28,1231.94L64.52,1171.01L47.7,1102.15L39,1023.89Z" fill="#FF3B3F"/>
+          <path d="M84.89,1066L316.34,1066L329.81,1104.19L348.34,1139.73L371.45,1171.53L398.47,1198.96L429.91,1222.64L465.13,1242.01L504.95,1257.38L547.14,1267.93L589.3,1273.83L633.65,1275.98L680.01,1274.42L722.68,1268.96L758.89,1260.3L793.06,1247.64L823.34,1231.72L849.09,1213.1L874.52,1187.28L894.73,1156.89L908.31,1123.77L915.1,1088.75L915.16,1052.48L908.17,1017.8L894.32,985.77L873.41,956.32L851.65,935.23L825.29,916.2L794.14,898.98L758.23,883.5L676.08,858.44L460.68,811.75L393.3,793.16L347.61,776.66L302.74,756.46L265.51,735.76L229.54,711.22L196.29,682.9L170.32,653.3L148.56,618.15L133.42,581.24L123.25,539.49L118.37,492.26L119.22,441.78L126.31,392.62L143.28,337.8L169.46,287.58L207.2,238.73L253.65,195.54L306.63,159.58L368.56,128.93L434.21,106.16L506.01,90.33L588.11,81.44L677,80.7L757.72,87.74L833.95,102.9L901.9,125.68L964.66,157.11L1017.64,194.58L1061.46,237.99L1089.97,276.47L1111.78,315.81L1129.29,360.54L1140.6,406L904.42,406L887.28,369.52L863.35,336.13L833.4,307.54L799.04,285.33L759.64,268.84L716.09,258.12L665.59,252.63L611.92,252.69L561.24,258.16L516.86,269.16L477.21,286.2L443.89,308.57L417.41,335.82L396.87,369.3L384.4,405.67L380.01,444.89L381.57,470.58L386.32,494.5L394.42,517.81L405.66,539.62L419.87,559.77L436.77,577.95L456.97,594.79L479.76,609.75L523.33,630.98L578.27,649.95L630.15,663.33L815.56,704.01L873.97,721.09L926.05,740.36L983.16,767.61L1032.98,798.57L1073.32,831.6L1107.18,869.25L1124.08,894.11L1138.55,921.5L1149.49,949.35L1158.41,981L1164.46,1014.61L1167.5,1048.62L1165.23,1121.56L1153.06,1183.55L1130.64,1239.78L1098.13,1289.26L1055.75,1332.57L1028.58,1353.41L1000.61,1371.07L935.83,1401.68L863.08,1424.34L780.34,1439.66L683.24,1447.38L581.95,1446.36L487.42,1436.65L402.05,1418.52L335.09,1396.18L276.88,1368.33L226.74,1334.62L181.91,1292.75L144.39,1243.78L117.91,1193.74L97.25,1132.56L84.89,1066Z" fill="#FF817C"/>
+          <path d="M134.7,1108.1L285.95,1108.1L303.99,1147.19L326.9,1183.06L353.97,1214.79L386.21,1243.33L422.76,1267.51L462.02,1286.59L503.91,1300.99L550.58,1311.3L599.48,1316.86L652.12,1317.94L702.01,1314.58L747.38,1306.86L788.39,1294.87L826.36,1278.35L860,1257.88L889.01,1233.69L916.91,1201.01L938.24,1163.73L951.88,1123.75L957.86,1080.68L955.84,1038.26L945.91,997.9L928.12,960.14L903.16,926.42L877.79,902.21L847.24,880.27L811.41,860.56L770.06,842.96L684.1,817.05L474.5,771.73L417.65,756.67L337.1,726.29L304.09,709.55L271.96,689.84L239.27,665.05L214.23,640.68L193.91,613.1L179.33,584.26L168.61,551.03L162,512.24L160.14,468.59L162.99,427.55L174.56,374.86L194.62,327.72L224.17,283.62L262.57,243.07L309.32,207.34L363.05,177.47L421.73,153.99L486.44,136.76L561.37,125.66L640,122.1L720.12,125.73L795.11,136.96L861.2,155.21L919.31,180.09L971.11,211.68L1015.15,249.63L1036.8,274.33L1057.04,303.18L1072.71,331.7L1086.04,363.9L932.07,363.9L917.53,338.34L899.62,313.82L879.19,291.73L856.94,272.51L832.84,256.06L806.12,241.9L777.37,230.38L746.26,221.38L688.79,212.07L626.93,210.03L566.57,214.7L513.27,226.15L473.78,240.93L439.01,259.96L408.66,283.45L383.55,310.78L363.11,342.66L348.38,377.8L340.04,414.57L337.99,452.64L340.72,482.27L346.92,509.93L356.86,536.99L370.68,563.12L387.13,586.25L407.26,607.99L430.49,627.57L456.53,644.93L505.53,669.18L566.18,690.28L620.79,704.38L799.85,743.44L851.57,758.1L899.8,775.16L950.94,798.21L997.39,825.2L1034.58,853.29L1065.36,884.37L1094.78,927.84L1113.59,975.7L1124.1,1032.08L1125.18,1095.51L1117.78,1151.4L1101.49,1203.03L1077.02,1247.27L1043.38,1286.95L998.61,1322.86L944.26,1352.56L880.74,1375.96L810.17,1392.48L725.93,1402.93L635.24,1405.87L547.72,1401.66L464.74,1389.96L396.92,1373.21L336.6,1351.19L285.79,1324.66L242.76,1293.29L204.61,1254.72L173.19,1210.17L150.36,1161.6L134.7,1108.1Z" fill="#FFD1CE"/>
+          <path d="M184.99,1145.99L260.92,1145.99L283.21,1186.41L310.31,1223.12L342.03,1255.82L377.76,1284.01L417.49,1307.74L461.68,1327.12L508.29,1341.32L559.26,1350.91L614.69,1355.57L673.37,1355.03L726.76,1349.41L775.25,1338.85L820.67,1322.87L861.72,1302L897.48,1276.89L928.49,1247.23L957.54,1208.15L978.86,1164.68L991.68,1118.48L995.99,1070.61L991.78,1023.27L978.98,978.11L957.84,936.13L928.95,898.46L900.38,871.73L866.4,847.56L826.25,825.65L781.5,806.79L690.96,779.72L487.04,735.71L436.07,722.63L368.06,698.56L309.81,669.08L280.01,649.09L253.61,627.04L235.58,606.98L221.66,585.34L210.18,558.58L202.53,528.38L198.59,494.65L198.29,459.53L204.5,409.52L218.75,364.7L241.19,324.16L272.17,286.41L310.6,252.64L355.69,223.74L409.69,198.59L467.37,180.07L534.99,166.85L606.91,160.63L684.83,161.14L759.52,168.89L821.91,182.54L878.54,202.67L929.76,229.52L972.78,261.52L1001.84,291.39L1026.58,326.01L954.48,326.01L919.15,278.52L897.08,256.64L874.29,238.17L822.14,207.56L762.59,186.4L700.97,175.22L631.71,172.06L563.26,176.91L502.39,189.85L456.21,207.3L415.67,229.96L379.89,258.46L350.74,291.36L326.79,330.47L310.44,372.29L301.61,416.61L300.46,461.89L304.38,494.57L312.21,525.98L324.07,556.42L339.64,584.95L358.52,611.13L380.43,634.77L406.13,656.66L435.45,676.47L488.18,703L554.02,726.2L612.36,741.33L788.04,779.55L878.04,807.36L923.59,826.91L965.64,849.87L1000.38,874.12L1029.41,900.91L1055.59,935.45L1072.91,972.62L1084.23,1018.69L1088.01,1069.91L1084.25,1124.07L1073.32,1170.56L1055.41,1210.65L1028.65,1247.55L993.06,1280.36L948.53,1308.4L894.25,1331.76L834.99,1348.79L766.46,1360.8L688.54,1367.13L606.47,1367.37L528.67,1361.56L461.9,1350.72L401.93,1335.1L349.27,1315.36L303.66,1291.15L265.66,1263L232.2,1228.63L204.84,1189.2L184.99,1145.99Z" fill="#FFFDF8"/>
+        </symbol>
+        <symbol id="og-wm-t" overflow="visible">
+          <path d="M0,326V0H1294V326H849V1490H445V326Z" fill="#FF1F26"/>
+          <path d="M36.36,289.64L36.36,36.36L1257.64,36.36L1257.64,289.64L846.62,289.72L835.09,292.41L826.87,297.15L818.77,305.8L814.57,314.31L812.64,326L812.64,1453.64L481.36,1453.64L481.36,326L480.12,316.59L475.23,305.8L463.18,294.51L447.38,289.72L36.36,289.64Z" fill="#FF3B3F"/>
+          <path d="M76.76,249.24L76.76,76.76L1217.24,76.76L1217.24,249.24L838.98,249.9L819.63,255.08L802.27,265.1L788.1,279.27L776.31,301.33L772.24,326L772.24,1413.24L521.76,1413.24L521.76,326L519.14,306.13L511.48,287.62L499.28,271.72L483.38,259.52L469.67,253.31L450.02,249.4L76.76,249.24Z" fill="#FF817C"/>
+          <path d="M117.16,208.84L117.16,117.16L1176.84,117.16L1176.84,208.84L849,208.84L826.14,211.09L797.18,220.92L771.75,237.91L751.59,260.91L738.06,288.34L732.84,310.71L731.84,326L731.84,1372.84L562.16,1372.84L562.16,326L558.17,295.68L550.08,274.18L533.09,248.75L510.09,228.59L489.84,217.76L460.29,209.84L117.16,208.84Z" fill="#FFD1CE"/>
+          <path d="M153.52,172.48L153.52,153.52L1140.48,153.52L1140.48,172.48L849,172.48L809.27,177.71L781.1,188.31L747.78,210.58L721.35,240.71L703.63,276.65L698.43,296.05L695.48,326L695.48,1336.48L598.52,1336.48L598.52,326L593.29,286.27L582.69,258.1L560.42,224.78L538.46,204.2L503.75,184.17L474.95,175.43L445,172.48L153.52,172.48Z" fill="#FFFDF8"/>
+        </symbol>
+      </defs>
+      <g transform="translate(-96,18)">
+        <use href="#og-wm-b" x="0"/>
+        <use href="#og-wm-s" x="1408.96"/>
+        <use href="#og-wm-t" x="2824.16"/>
+        <use href="#og-wm-s" x="4271.12"/>
+      </g>
+    </svg>
+  </div>
   <div class="name">Bevier Strategic<br>Technology Solutions</div>
 
   <div class="star-rule">

diff --git a/src/components/brand/IdentityLockup.tsx b/src/components/brand/IdentityLockup.tsx
@@ -1,4 +1,5 @@
 import Image from "next/image";
+import { BstsWordmark } from "./BstsWordmark";
 import { BLAST, LOCKUP, PROJECTILE, TANK } from "./lockup";
 
 /**
@@ -35,7 +36,7 @@ export function IdentityLockup({
   return (
     <>
       <div className="text-center">
-        <p className={`mark-hero leading-none ${type.mark}`}>BSTS</p>
+        <BstsWordmark className={`leading-none ${type.mark}`} brackets={size === "hero"} />
         <p className={`company-name mt-1.5 ${type.name}`}>
           Bevier Strategic
           <br />
